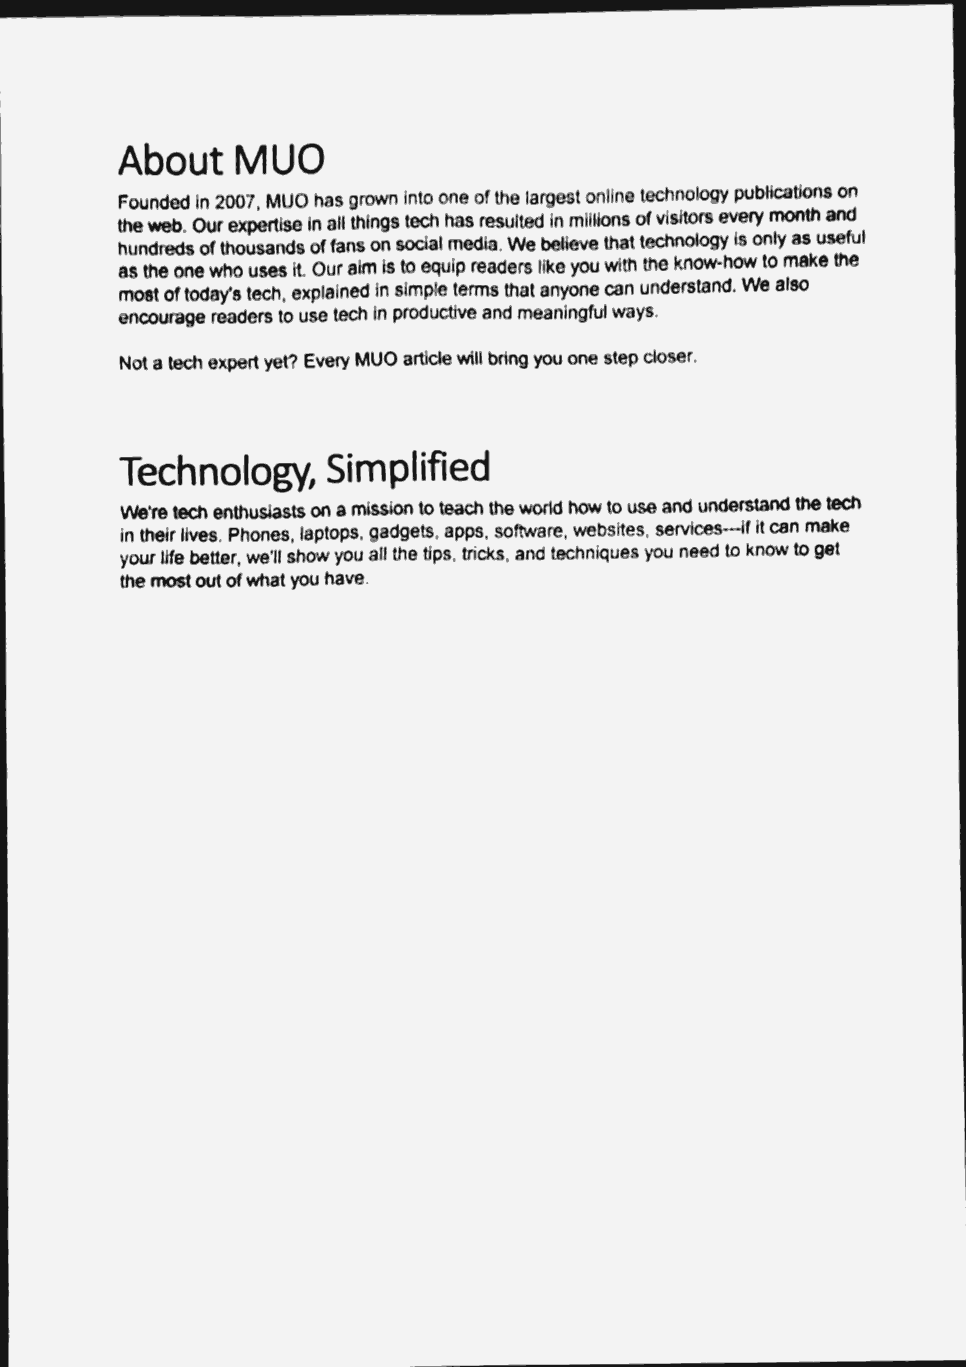
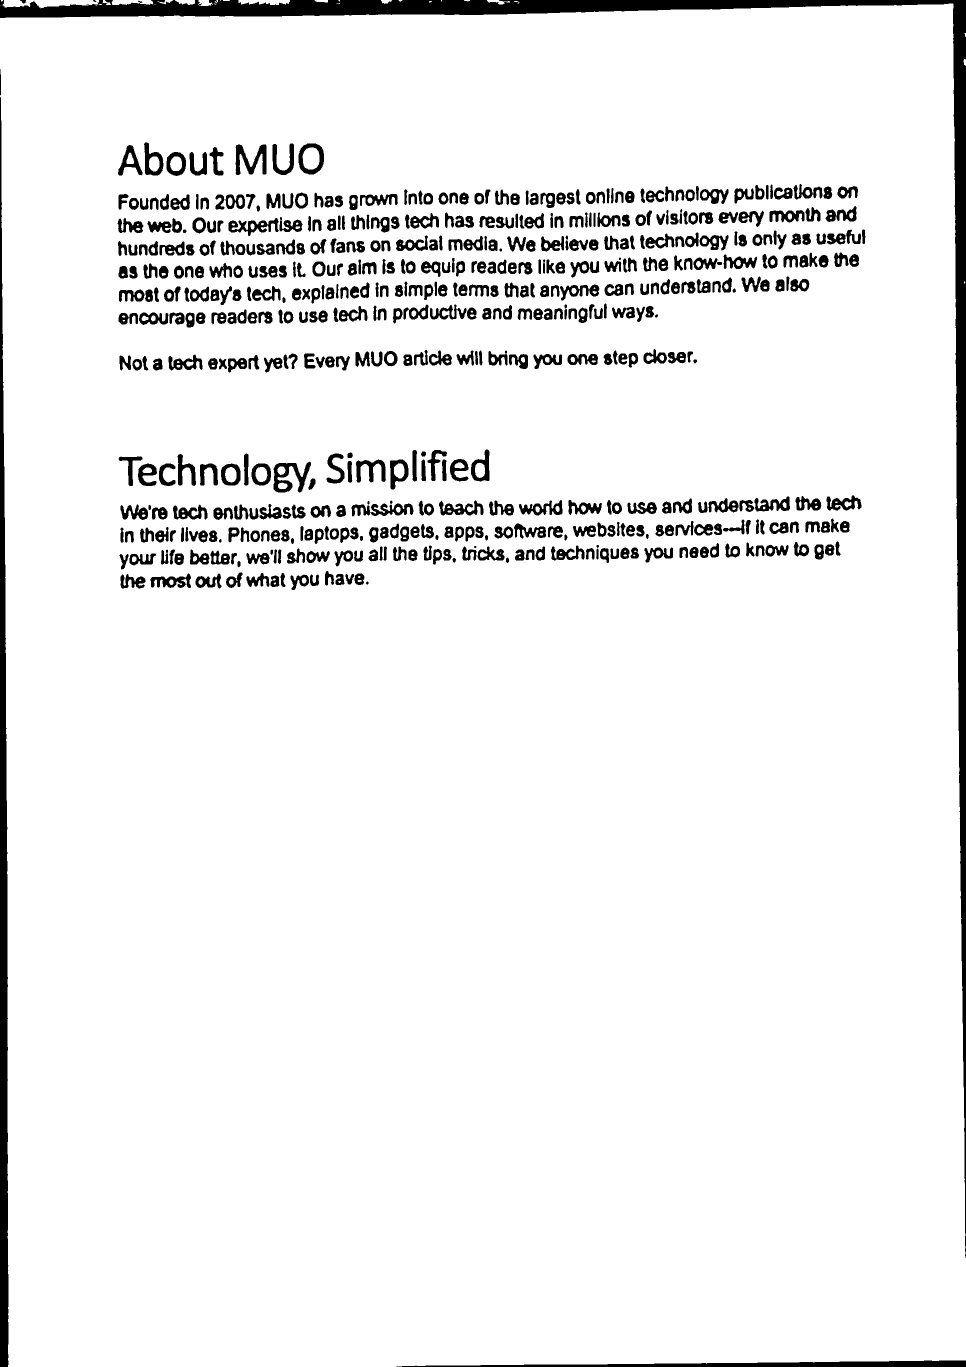
Replace bw filter with local-mean adaptive threshold
Simplify the document bw pipeline from Sauvola + multi-tone quantization
to illumination correction + local-mean normalization + global threshold.
The new approach produces cleaner CamScanner-like output with pure white
backgrounds and crisp black text.

Also add two new verification samples (school handout portrait/landscape)
and update the filter documentation to match the new algorithm.

diff --git a/scripts/filter_asset_pipeline.py b/scripts/filter_asset_pipeline.py
@@ -13,7 +13,7 @@ FILTERS = {
         "ops": [("contrast", 1.4), ("brightness", 1.05)],
     },
     "bw": {
-        # illumination correction + Sauvola-like text mask + multitone grayscale quantization
+        # illumination correction + local-mean adaptive threshold
         "pipeline": "document_bw",
     },
     "whiteboard": {
@@ -824,57 +824,27 @@ def apply_document_bw_pipeline(image: np.ndarray) -> np.ndarray:
 
     rgb = cv2.cvtColor(working, cv2.COLOR_BGR2RGB)
     lab = cv2.cvtColor(rgb, cv2.COLOR_RGB2LAB)
-    luminance, a_channel, b_channel = cv2.split(lab)
+    luminance = cv2.split(lab)[0]
 
     illumination = estimate_illumination(luminance)
     flattened_l = flat_field_correct(luminance, illumination)
     stretched_l = auto_stretch_luminance(flattened_l)
     denoised_l = cv2.medianBlur(stretched_l, 3)
-    emphasized_l = apply_channel_contrast(denoised_l, 1.48)
 
-    paper_mask = build_paper_mask(denoised_l, a_channel, b_channel)
-    soft_structure, strong_structure = build_sauvola_structure_masks(emphasized_l)
-    _, dark_mask = cv2.threshold(
-        denoised_l,
-        max(70, int(np.percentile(denoised_l, 12))),
-        255,
-        cv2.THRESH_BINARY_INV,
+    local_mean = cv2.GaussianBlur(denoised_l.astype(np.float32), (71, 71), 0)
+    normalized = (denoised_l.astype(np.float32) / (local_mean + 1.0)) * 255.0
+    normalized = np.clip(normalized, 0, 255).astype(np.uint8)
+    _, binary = cv2.threshold(normalized, 228, 255, cv2.THRESH_BINARY)
+
+    black_mask = cv2.bitwise_not(binary)
+    num_labels, labels, stats, _ = cv2.connectedComponentsWithStats(
+        black_mask, connectivity=8,
     )
-    strong_structure = cv2.bitwise_or(strong_structure, dark_mask)
-    kernel3 = cv2.getStructuringElement(cv2.MORPH_ELLIPSE, (3, 3))
-    soft_structure = cv2.dilate(soft_structure, kernel3, iterations=1)
-    strong_structure = cv2.dilate(strong_structure, kernel3, iterations=1)
-    structure_mask = cv2.bitwise_or(soft_structure, strong_structure)
-    structure_mask = cv2.medianBlur(structure_mask, 3)
-    paper_mask = cv2.bitwise_and(paper_mask, cv2.bitwise_not(structure_mask))
-    paper_mask = cv2.morphologyEx(
-        paper_mask,
-        cv2.MORPH_CLOSE,
-        cv2.getStructuringElement(cv2.MORPH_ELLIPSE, (5, 5)),
-        iterations=2,
-    )
+    for label in range(1, num_labels):
+        if stats[label, cv2.CC_STAT_AREA] < 8:
+            binary[labels == label] = 255
 
-    toned_l = blend_toward_value(emphasized_l, paper_mask, 246.0, 0.44)
-    toned_l32 = toned_l.astype(np.float32)
-    structure_idx = structure_mask > 0
-    toned_l32[structure_idx] = np.minimum(toned_l32[structure_idx], emphasized_l[structure_idx].astype(np.float32) * 0.92)
-    toned_l = np.clip(toned_l32, 0, 255).astype(np.uint8)
-    _, bright_background = cv2.threshold(toned_l, 182, 255, cv2.THRESH_BINARY)
-    bright_background = cv2.bitwise_and(bright_background, cv2.bitwise_not(structure_mask))
-    toned_l = blend_toward_value(toned_l, bright_background, 236.0, 0.32)
-    quantize_source = cv2.GaussianBlur(toned_l, (3, 3), 0)
-    tone_count = estimate_bw_tone_count(quantize_source)
-    sample = build_quantization_sample(quantize_source)
-    levels = fit_quantization_levels(sample, tone_count)
-    quantized = quantize_with_levels(quantize_source, levels)
-
-    if tone_count >= 3:
-        paper_floor = levels[-2]
-        quantized[paper_mask > 0] = np.maximum(quantized[paper_mask > 0], paper_floor)
-    else:
-        quantized[paper_mask > 0] = levels[-1]
-
-    bw = cv2.merge([quantized, quantized, quantized])
+    bw = cv2.merge([binary, binary, binary])
     if upscale:
         bw = cv2.resize(bw, (original_width, original_height), interpolation=cv2.INTER_AREA)
     return bw
